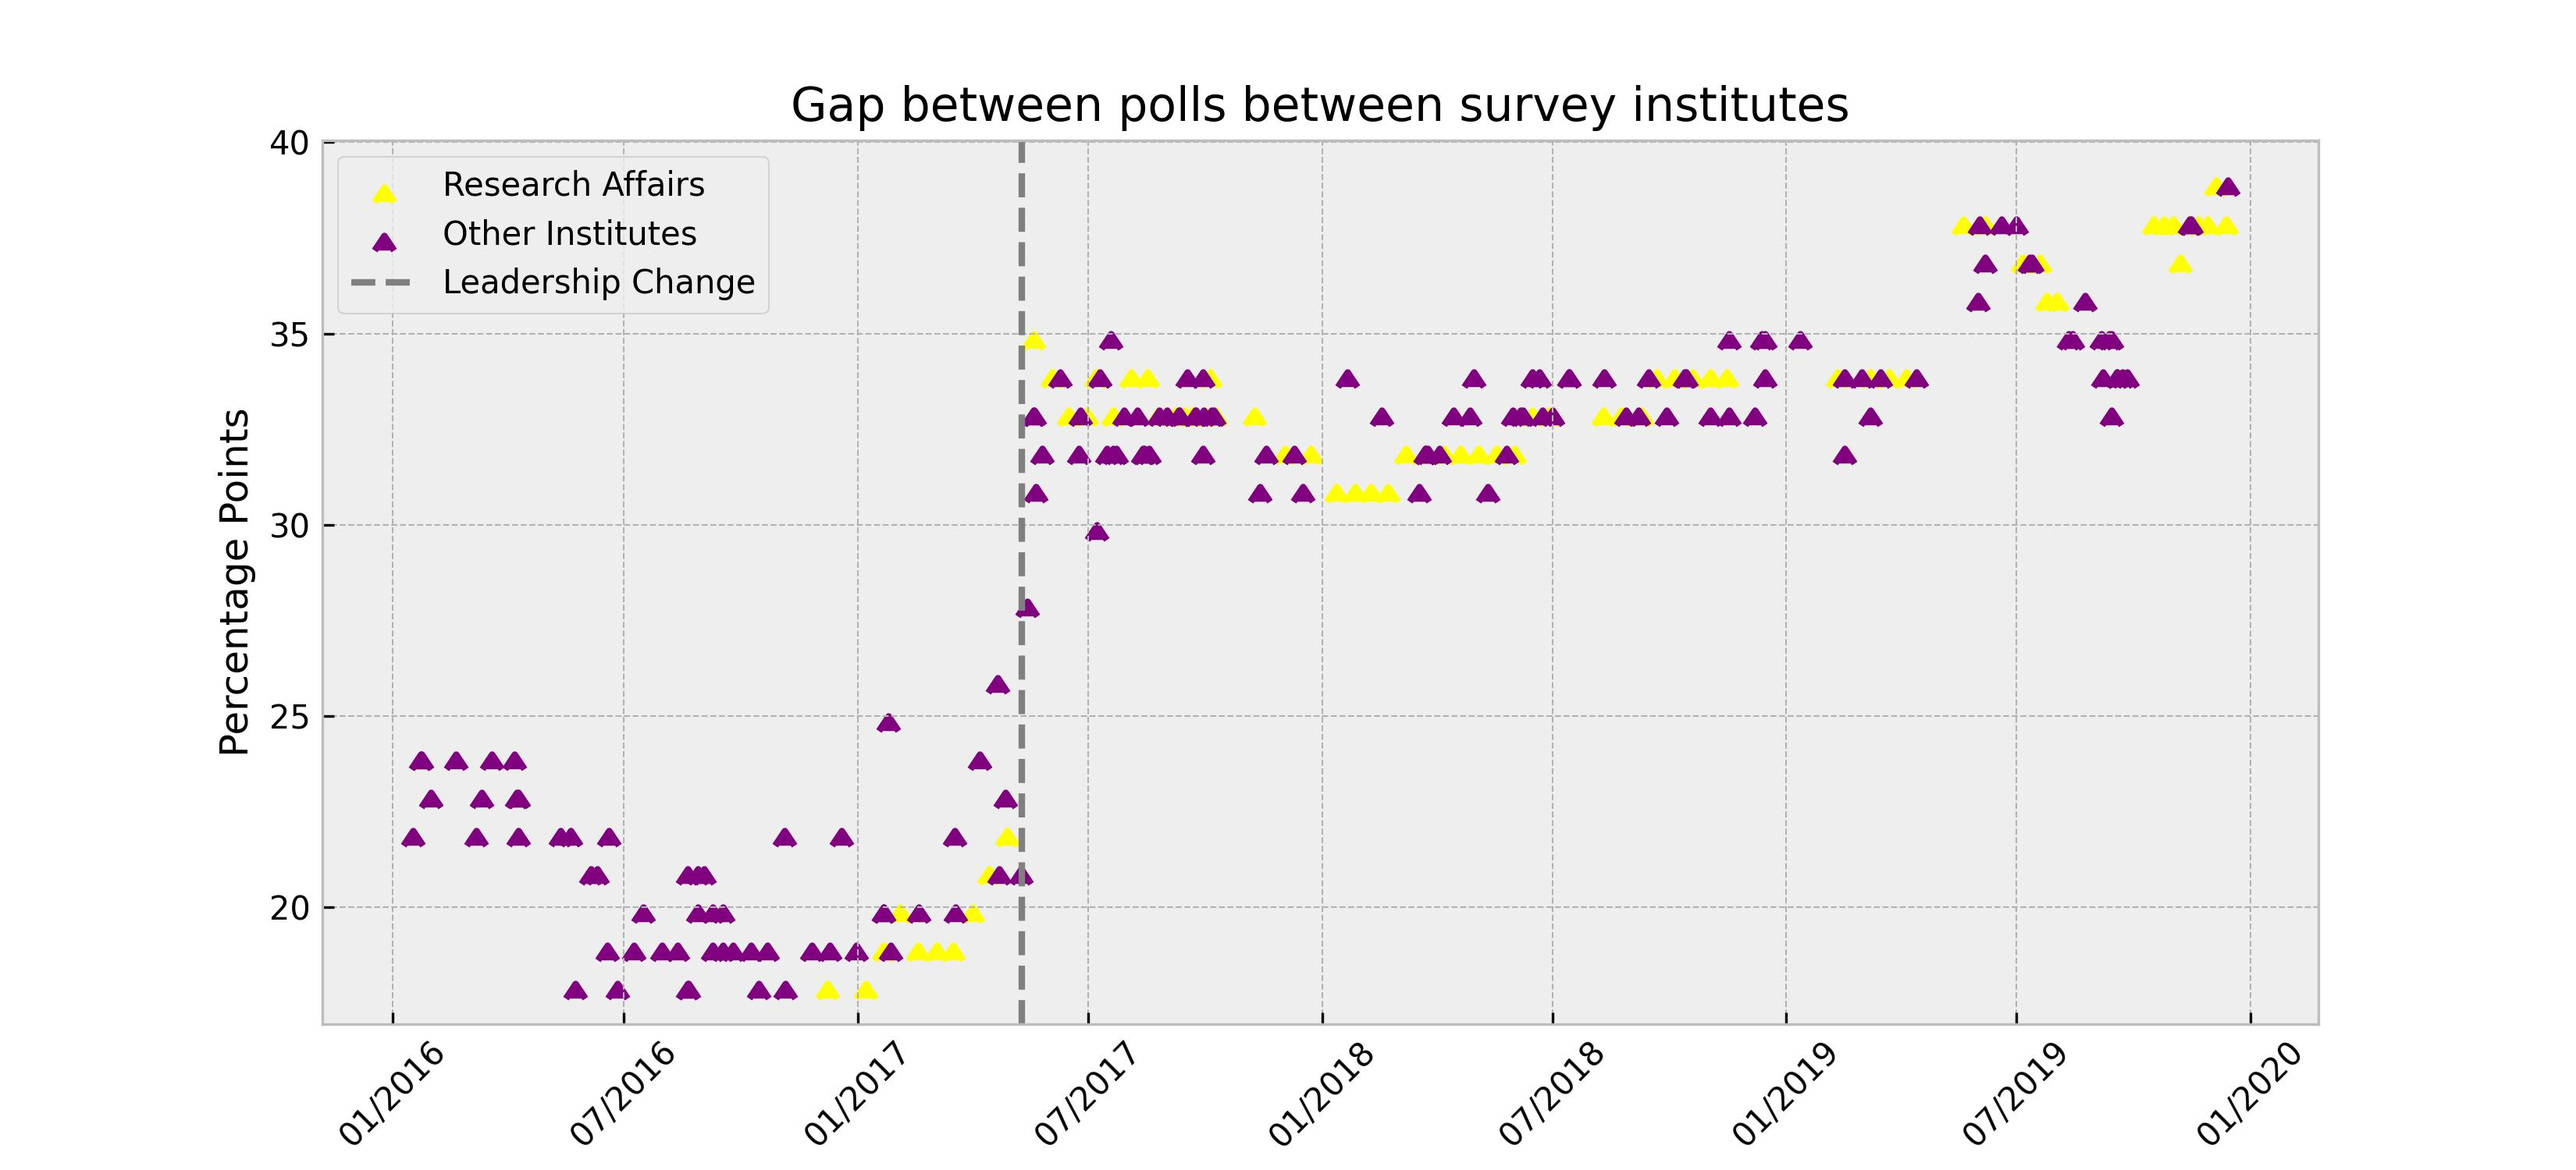
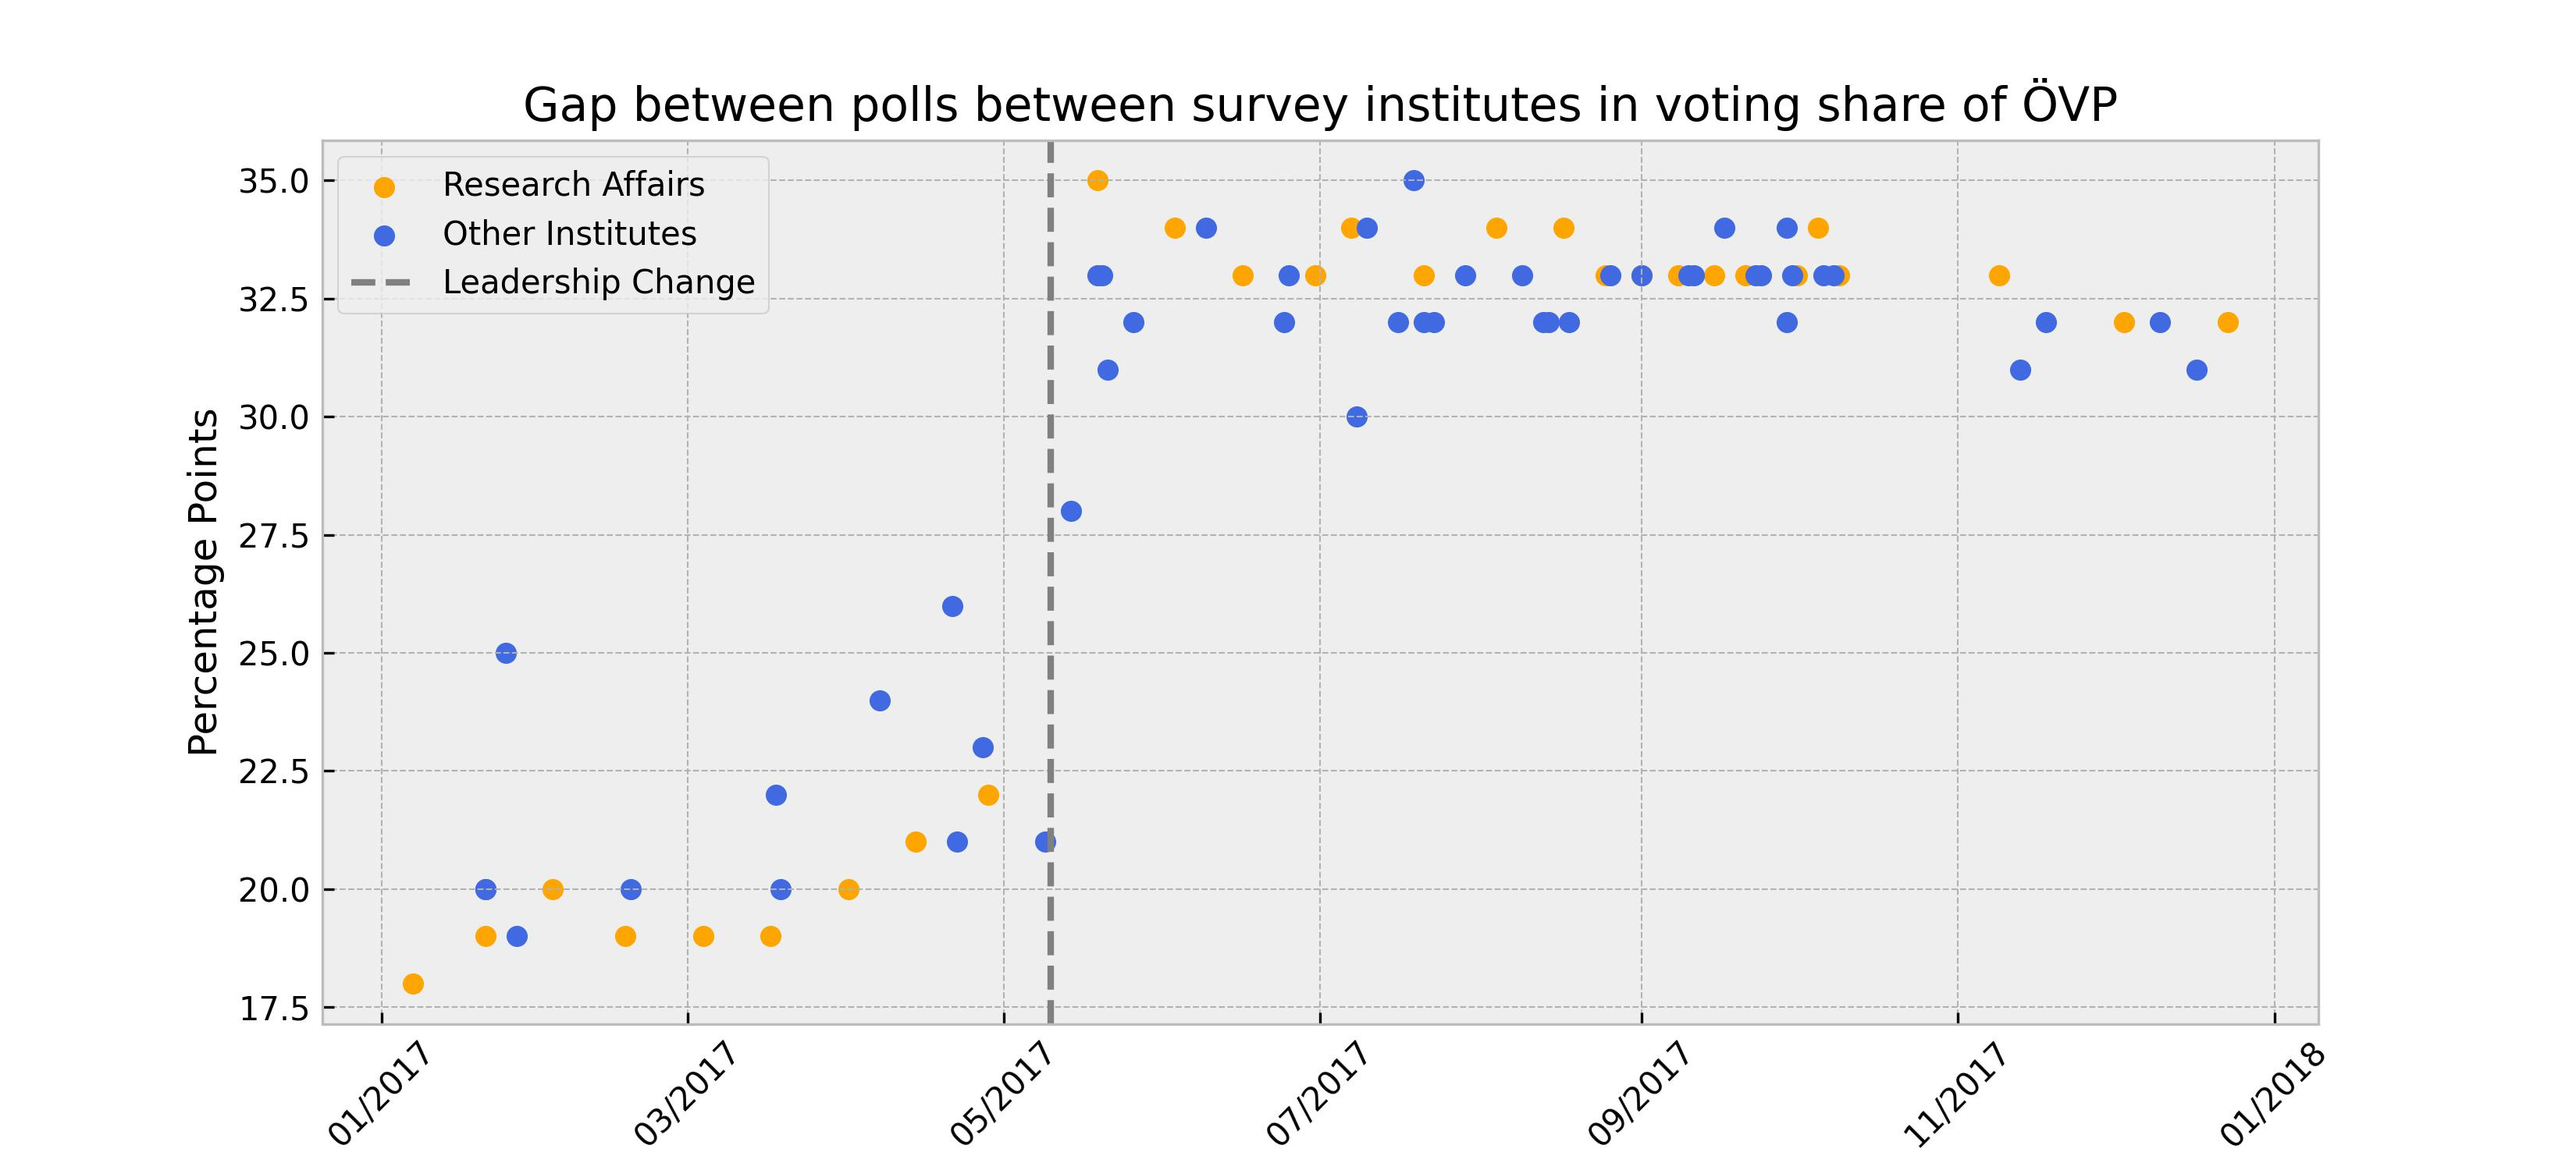
Add Images

diff --git a/scripts/data_handler.py b/scripts/data_handler.py
@@ -1,0 +1,76 @@
+
+import logging
+import matplotlib.pyplot as plt
+import matplotlib.dates as mdates
+import seaborn as sns
+import datetime as dt
+import pathlib
+
+from scripts.config import Directory
+
+class Handler:
+    """
+    
+    """
+    def __init__(self, df):
+        self.df = df
+        
+        
+    def fixed_effects(self):
+        pass
+        #y = b0 + b1*resaff + b2*kurz + b3*kurz*resaff + Monats-FEs; Darstellung sind avg. marginal effects von resaff bei kurz==0 und kurz==1)
+    
+    
+    def plotDifference(self, var, save=False):
+        self.df = self.df[self.df.Date.dt.year==2017]
+        with plt.style.context('bmh'):
+            fig, ax = plt.subplots(figsize=(11,5))
+            ax.scatter("Date", var, data=self.df[self.df["Institute_bin"]==1], label="Research Affairs", c='orange')
+            ax.scatter("Date", var, data=self.df[self.df["Institute_bin"]==0], label="Other Institutes", c='royalblue')
+            ax.set_ylabel("Percentage Points")
+            ax.axvline(dt.datetime(2017, 5, 10), c='grey', ls="--", label="Leadership Change")
+            #ax.axvline(dt.datetime(2016, 12, 8), c='grey', ls="--", label="National Election Date")
+            ax.legend(fancybox=True)
+            ax.set_title('Gap between polls between survey institutes in voting share of ' + str(var))
+            myFmt = mdates.DateFormatter('%m/%Y')
+            ax.xaxis.set_major_formatter(myFmt)
+            ax.tick_params(axis='x', labelrotation = 45)
+            plt.show()
+            
+            if save is True:
+                directory = Directory()
+                path = directory.imageFolder().joinpath(str(var) + "_difference.jpg")
+                fig.savefig(path, dpi=300)
+        
+        
+    def naive_dif_in_dif(self, var, plot=True, save=False):
+        after = self.df[(self.df["Date"] >= dt.datetime(2017,5,10)) & (self.df["Date"].dt.year == 2017)].groupby("Institute_bin")[var].mean()
+        before = self.df[(self.df["Date"] < dt.datetime(2017,5,10)) & (self.df["Date"].dt.year == 2017)].groupby("Institute_bin")[var].mean()
+        diff_in_diff = (after.loc[1] -before.loc[1])-(after.loc[0]-before.loc[0])
+        print("Naive Diff-in-Diff Estimator of changes in " + str(var) + ": ")
+        print("[E(Y1|D=1)-E(Y1|D=0)] - [E(Y0|D=1)-E(Y0|D=0)] = "+ str(diff_in_diff))
+        
+        
+        if plot is True:
+            with plt.style.context('ggplot'):
+                fig, ax = plt.subplots(figsize=(10,5))
+                ax.plot(["Jan-May", "May-December"], [before.loc[1], after.loc[1]], label="Research Affairs", lw=2)
+                ax.plot(["Jan-May", "May-December"], [before.loc[0], after.loc[0]], label="Other Institutes", lw=2)
+                ax.plot(["Jan-May", "May-December"], [before.loc[1], before.loc[1] +(after.loc[0]-before.loc[0])], label="Counterfactual", lw=2, color="C2", ls="-.")
+                ax.set_ylabel("Percentage Points")
+                ax.legend(fancybox=True)
+                ax.set_title("Plot of Counterfacutals of Naive Diff-in-Diff Estimator")
+                plt.show()
+        
+        if save is True:
+            directory = Directory()
+            path = directory.imageFolder().joinpath(str(var) + "_causal_estimate.jpg")
+            fig.savefig(path, dpi=300)            
+
+        
+        
+        
+        
+if __name__ == "__main__":
+    Plotter = Plotter()
+    df = plotter.scatterplot()

diff --git a/scripts/data_scraper.py b/scripts/data_scraper.py
@@ -3,26 +3,29 @@ import logging
 import json
 import requests
 import pandas as pd
+from requests.models import Response
 from tqdm import tqdm
 
 class Scraper:
     """
     scrape wahl
     """
-
+    
     def __init__(self):
-        self.url = "https://neuwal.com/wahlumfragen/data/neuwal-wahlumfragen-user.json"
+        self.wiki = "https://en.wikipedia.org/wiki/Opinion_polling_for_the_2017_Austrian_legislative_election"
+        self.neuwal = "https://neuwal.com/wahlumfragen/data/neuwal-wahlumfragen-user.json"
+        self.strategie = "https://www.strategieanalysen.at/umfragen/polls.csv"
     
     def load(self):
         logging.info("Loading data...")
         try:
-            response = requests.get(self.url)
+            response = requests.get(self.neuwal)
         except Exception as err:
             logging.error(f"Error while trying to read data: {err}")
             return False
         if response.status_code == 200:
             logging.info(f"Status OK")
-            dictionary = json.loads(response.text)["data"]
+            dictionary = json.loads(response.text)["data"]                
             df = pd.DataFrame(dictionary)
             logging.info(f"Data loaded")
             return df
@@ -31,6 +34,36 @@ class Scraper:
             return None
             
 
+    def load2(self):
+        logging.info("Loading data...")
+        try:
+            response = requests.get(self.strategie)
+        except Exception as err:
+            logging.error(f"Error while trying to read data: {err}")
+            return False
+        if response.status_code == 200:
+            logging.info(f"Status OK")
+            df = pd.read_csv(self.strategie)
+            logging.info(f"Data loaded")
+            return df
+        else:
+            logging.error(f'Something went wrong: {response.status_code}')
+            return None
+
+
+    def loadwiki(self):
+        logging.info("Loadding data...")
+        try:
+            response = requests.get(self.wiki)
+        except Exception as err:
+            logging.error(f"Error while trying to read data: {err}")
+            return False
+        if response.status_code == 200:
+            logging.info(f"Status OK")
+        
+        
+        
+        
 if __name__ == "__main__":
     scraper = Scraper()
     dictionary, df = scraper.load()

diff --git a/pipeline.py b/pipeline.py
@@ -1,4 +1,4 @@
-# %% SetUp Logging 
+# %% SetUp Logging
 import logging
 
 logging.basicConfig(
@@ -6,12 +6,42 @@ logging.basicConfig(
     datefmt="%m/%d/%Y %H:%M:%S",
     level=logging.INFO, # change to logging.ERROR to only log errors
 )
-# %% Import classes
-from scripts.data_plotter import Plotter
+# %%   # ------------------------- imports ------------------------- #
 from scripts.data_getter import Getter
-# %% Get Data
-getter = Getter()
-getter.getProcessedData()
-# %% Plotting
-plotter = Plotter(getter.df)
-plotter.scatterplot("ÖVP")
+from scripts.data_handler import Handler
+# %%   # ------------------------ init objs ------------------------ #
+def run_pipeline(compare=False):
+    # Dataset for comparison 
+    if compare is True:
+        getter_alt = Getter()
+        getter_alt.getCheckData()
+        handler = Handler(getter_alt.df)
+        print("Check Dataset")
+        handler.plotDifference("SPÖ")
+        handler.naive_dif_in_dif("SPÖ", plot=True)
+        
+    getter = Getter()
+    getter.getProcessedData()
+    handler = Handler(getter.df)
+    print("Initial Dataset")
+    handler.plotDifference("Grüne")
+    handler.naive_dif_in_dif("SPÖ", save=True)
+
+
+if __name__== "__main__":
+    run_pipeline()
+# %%
+import logging
+import json
+import requests
+import pandas as pd
+from requests.models import Response
+from tqdm import tqdm
+
+logging.info("Loadding data...")
+try:
+    response = requests.get("https://en.wikipedia.org/wiki/Opinion_polling_for_the_2017_Austrian_legislative_election")
+except Exception as err:
+    logging.error(f"Error while trying to read data: {err}")
+if response.status_code == 200:
+    logging.info(f"Status OK")

diff --git a/scripts/data_preprocesser.py b/scripts/data_preprocesser.py
@@ -31,17 +31,18 @@ class Preprocesser:
         logging.info("Cases limited!")
 
 
-    def recode_columns(self):
+    def recode_columns(self, check=False):
         # Recode Voting Percentages
         cols = [x for x in self.df.columns if re.search("Css", x)]
-        for col in cols:
-            parties = self.df[col].unique()
+        if not cols:
+            for col in cols:
+                parties = self.df[col].unique()
             
-            for party in parties:
-                if party not in self.df.columns:
-                    self.df[party] = np.nan
+                for party in parties:
+                    if party not in self.df.columns:
+                        self.df[party] = np.nan
                     
-                self.df.loc[(self.df[col] == party), party] = self.df.loc[(self.df[col] == party), col[0:2]+"Value"]
+                    self.df.loc[(self.df[col] == party), party] = self.df.loc[(self.df[col] == party), col[0:2]+"Value"]
                 
         # Recode institute to binary var
         self.df["bin"] = np.where(self.df.institut == "Research Affairs",1,0)
@@ -59,8 +60,10 @@ class Preprocesser:
             "bin":"Institute_bin",
             "n":"Sample Size",
             "datum":"Date",
-            "methode":"Method",
         }
+        if "methode" in self.df.columns:
+            self.df["methode"] = "Method"
+
         self.df = self.df[list(cols_dic.keys())]
         self.df = self.df.rename(columns=cols_dic)
         

diff --git a/scripts/data_getter.py b/scripts/data_getter.py
@@ -52,3 +52,24 @@ class Getter:
         directory = Directory()
         path = directory.analysisFolder() / "au_polls.csv"
         self.df.to_csv(path, index=False)
+        
+    
+    def getCheckData(self):
+        scraper = Scraper()
+        self.df = scraper.load2()
+        rename_dic={
+            "institute": "institut",
+            "oevp": "ovp",
+            "spoe": "spo",
+            "fpoe": "fpo",
+            "gruene": "gru",
+            "sample": "n",
+            "date": "datum",
+        }
+        self.df = self.df.rename(columns=rename_dic)
+        self.df["regionID"] = 1
+        preprocesser = Preprocesser(self.df)
+        preprocesser.load()
+        self.df = preprocesser.df
+        
+        
